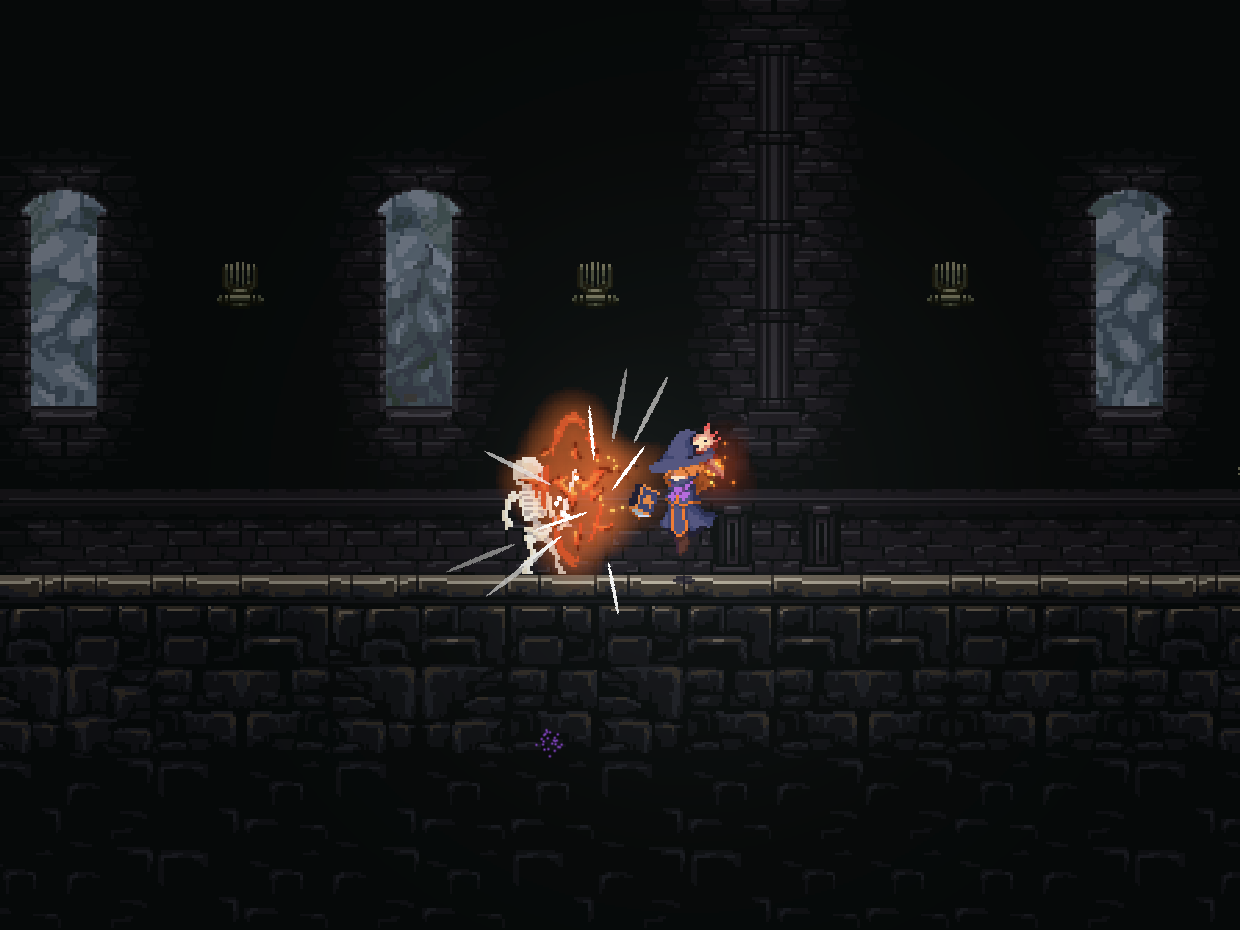
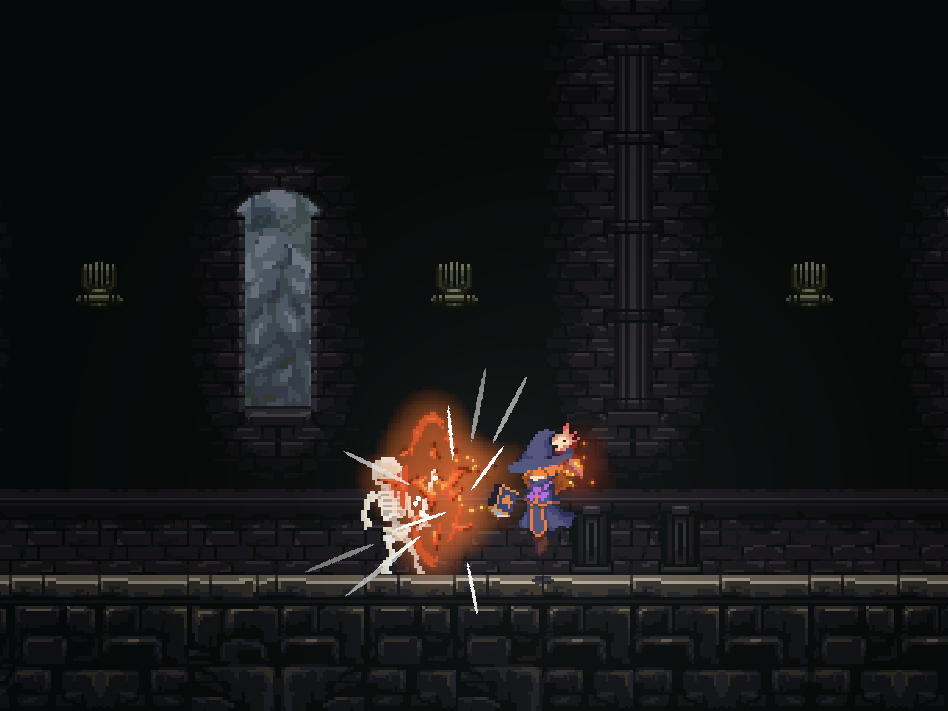
대표 이미지 다듬기: 로고를 위쪽 30% 지점으로, Arcanist 플레이 화면 다시 자름
- 대표 이미지의 로고 위치를 top 26%에서 30%로 내리고, 플레이 화면이 없을 때 바탕 글로우 중심도 30%로(렌더러 CSS 직접 수정)
- Arcanist 대표 이미지 배경(cover-play.png)을 아래 여백이 위 로고 여백과 맞도록 다시 자름(948×711)

diff --git a/assets/portfolio.css b/assets/portfolio.css
@@ -136,8 +136,8 @@ code { font-family: var(--mono); font-size: .88em; background: var(--accent-soft
 .cover.has-logo .cover-bg { position: absolute; inset: 0; }
 .cover.has-logo::after { content: ''; position: absolute; inset: 0; pointer-events: none;
   background: linear-gradient(180deg, rgba(0, 0, 0, .62) 0%, rgba(0, 0, 0, .28) 46%, rgba(0, 0, 0, .12) 70%, rgba(0, 0, 0, .38) 100%); }
-.cover.has-logo.no-bg::after { background: radial-gradient(120% 90% at 50% 26%, rgba(255, 255, 255, .06), transparent 60%); }
-.cover.has-logo .cover-logo { position: absolute; z-index: 1; left: 50%; top: 26%; transform: translate(-50%, -50%);
+.cover.has-logo.no-bg::after { background: radial-gradient(120% 90% at 50% 30%, rgba(255, 255, 255, .06), transparent 60%); }
+.cover.has-logo .cover-logo { position: absolute; z-index: 1; left: 50%; top: 30%; transform: translate(-50%, -50%);
   width: 70%; height: auto; max-height: 34%; object-fit: contain; filter: drop-shadow(0 6px 18px rgba(0, 0, 0, .65)); }
 .meta { display: grid; grid-template-columns: 1fr; gap: 14px 28px; }
 .meta dt { white-space: nowrap; }
